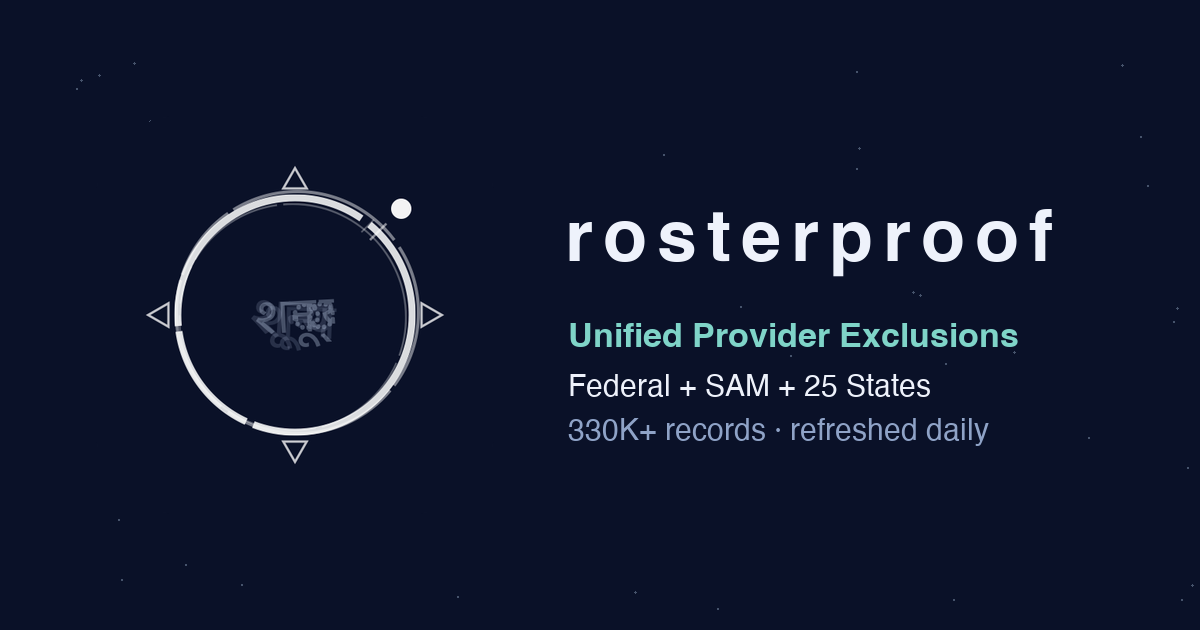
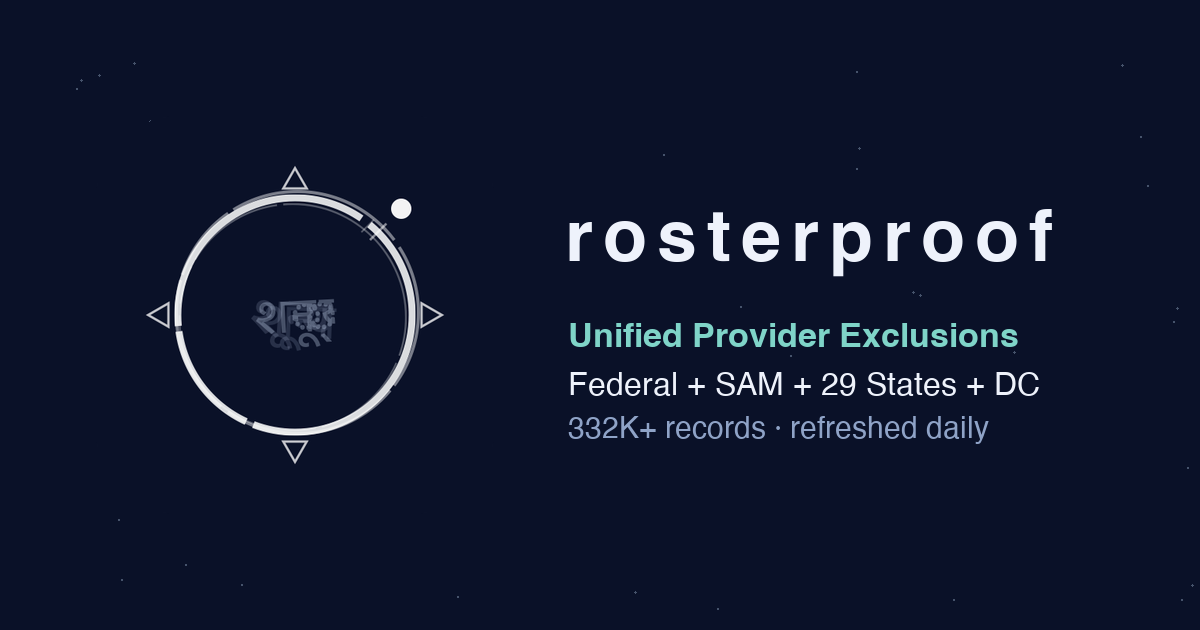
Stats: 332,796 records / Federal + 29 states + DC / 53,218 NPPES-verified / gap 52.5%
KS, IA, MT, DC, MA added upstream (2026-07-19 sweep). Tile fallbacks,
live-JS state label (DC counted separately via includes_dc), and
og-image refreshed to current truth.

Claude-Session: https://claude.ai/code/session_01PXfHoMXCHd5UrzFLypzow7

Changed region(s): [[0.4625, 0.573, 0.8633, 0.6333], [0.4625, 0.6635, 0.8325, 0.7238]]

diff --git a/index.html b/index.html
@@ -81,11 +81,11 @@ so exclusion screening becomes a simple join in your own warehouse — no scrape
 no PDFs to retype, no blind spots between the federal list and the states.</p>
 
 <div class="stats">
-<div class="stat"><div class="big" id="st-records">330K+</div><div class="small">exclusion records, history-tracked</div></div>
-<div class="stat"><div class="big" id="st-states">Federal + 25 states</div><div class="small">OIG LEIE + SAM.gov plus state Medicaid exclusion lists</div></div>
-<div class="stat"><div class="big" id="st-gap">~52%</div><div class="small">of state exclusions never reach the federal LEIE</div></div>
-<div class="stat"><div class="big" id="st-npi">52K+</div><div class="small">NPPES-verified NPI matches — screen claims by NPI, not name-matching</div></div>
-<div class="stat"><div class="big" id="st-multi">6.5K+</div><div class="small">providers excluded in 2+ jurisdictions — under ACA §6501, one state's exclusion is every state's problem</div></div>
+<div class="stat"><div class="big" id="st-records">332K+</div><div class="small">exclusion records, history-tracked</div></div>
+<div class="stat"><div class="big" id="st-states">Federal + 29 states + DC</div><div class="small">OIG LEIE + SAM.gov plus state Medicaid exclusion lists</div></div>
+<div class="stat"><div class="big" id="st-gap">~53%</div><div class="small">of state exclusions never reach the federal LEIE</div></div>
+<div class="stat"><div class="big" id="st-npi">53K+</div><div class="small">NPPES-verified NPI matches — screen claims by NPI, not name-matching</div></div>
+<div class="stat"><div class="big" id="st-multi">6.8K+</div><div class="small">providers excluded in 2+ jurisdictions — under ACA §6501, one state's exclusion is every state's problem</div></div>
 <div class="stat"><div class="big">Daily</div><div class="small">automated refresh with full change feed</div></div>
 </div>
 
@@ -133,7 +133,7 @@ Live from the published dataset — refreshed daily<span id="st-asof"></span>.</
 fetch('stats.json').then(r => r.json()).then(d => {
   const fmt = n => n.toLocaleString('en-US');
   document.getElementById('st-records').textContent = fmt(d.records_total);
-  document.getElementById('st-states').textContent = 'Federal + ' + d.states + ' states';
+  document.getElementById('st-states').textContent = 'Federal + ' + d.states + ' states' + (d.includes_dc ? ' + DC' : '');
   document.getElementById('st-gap').textContent = '~' + Math.round(d.federal_gap_overall_pct) + '%';
   document.getElementById('st-npi').textContent = fmt(d.npi_resolved.count);
   document.getElementById('st-multi').textContent = fmt(d.multi_jurisdiction_npis);